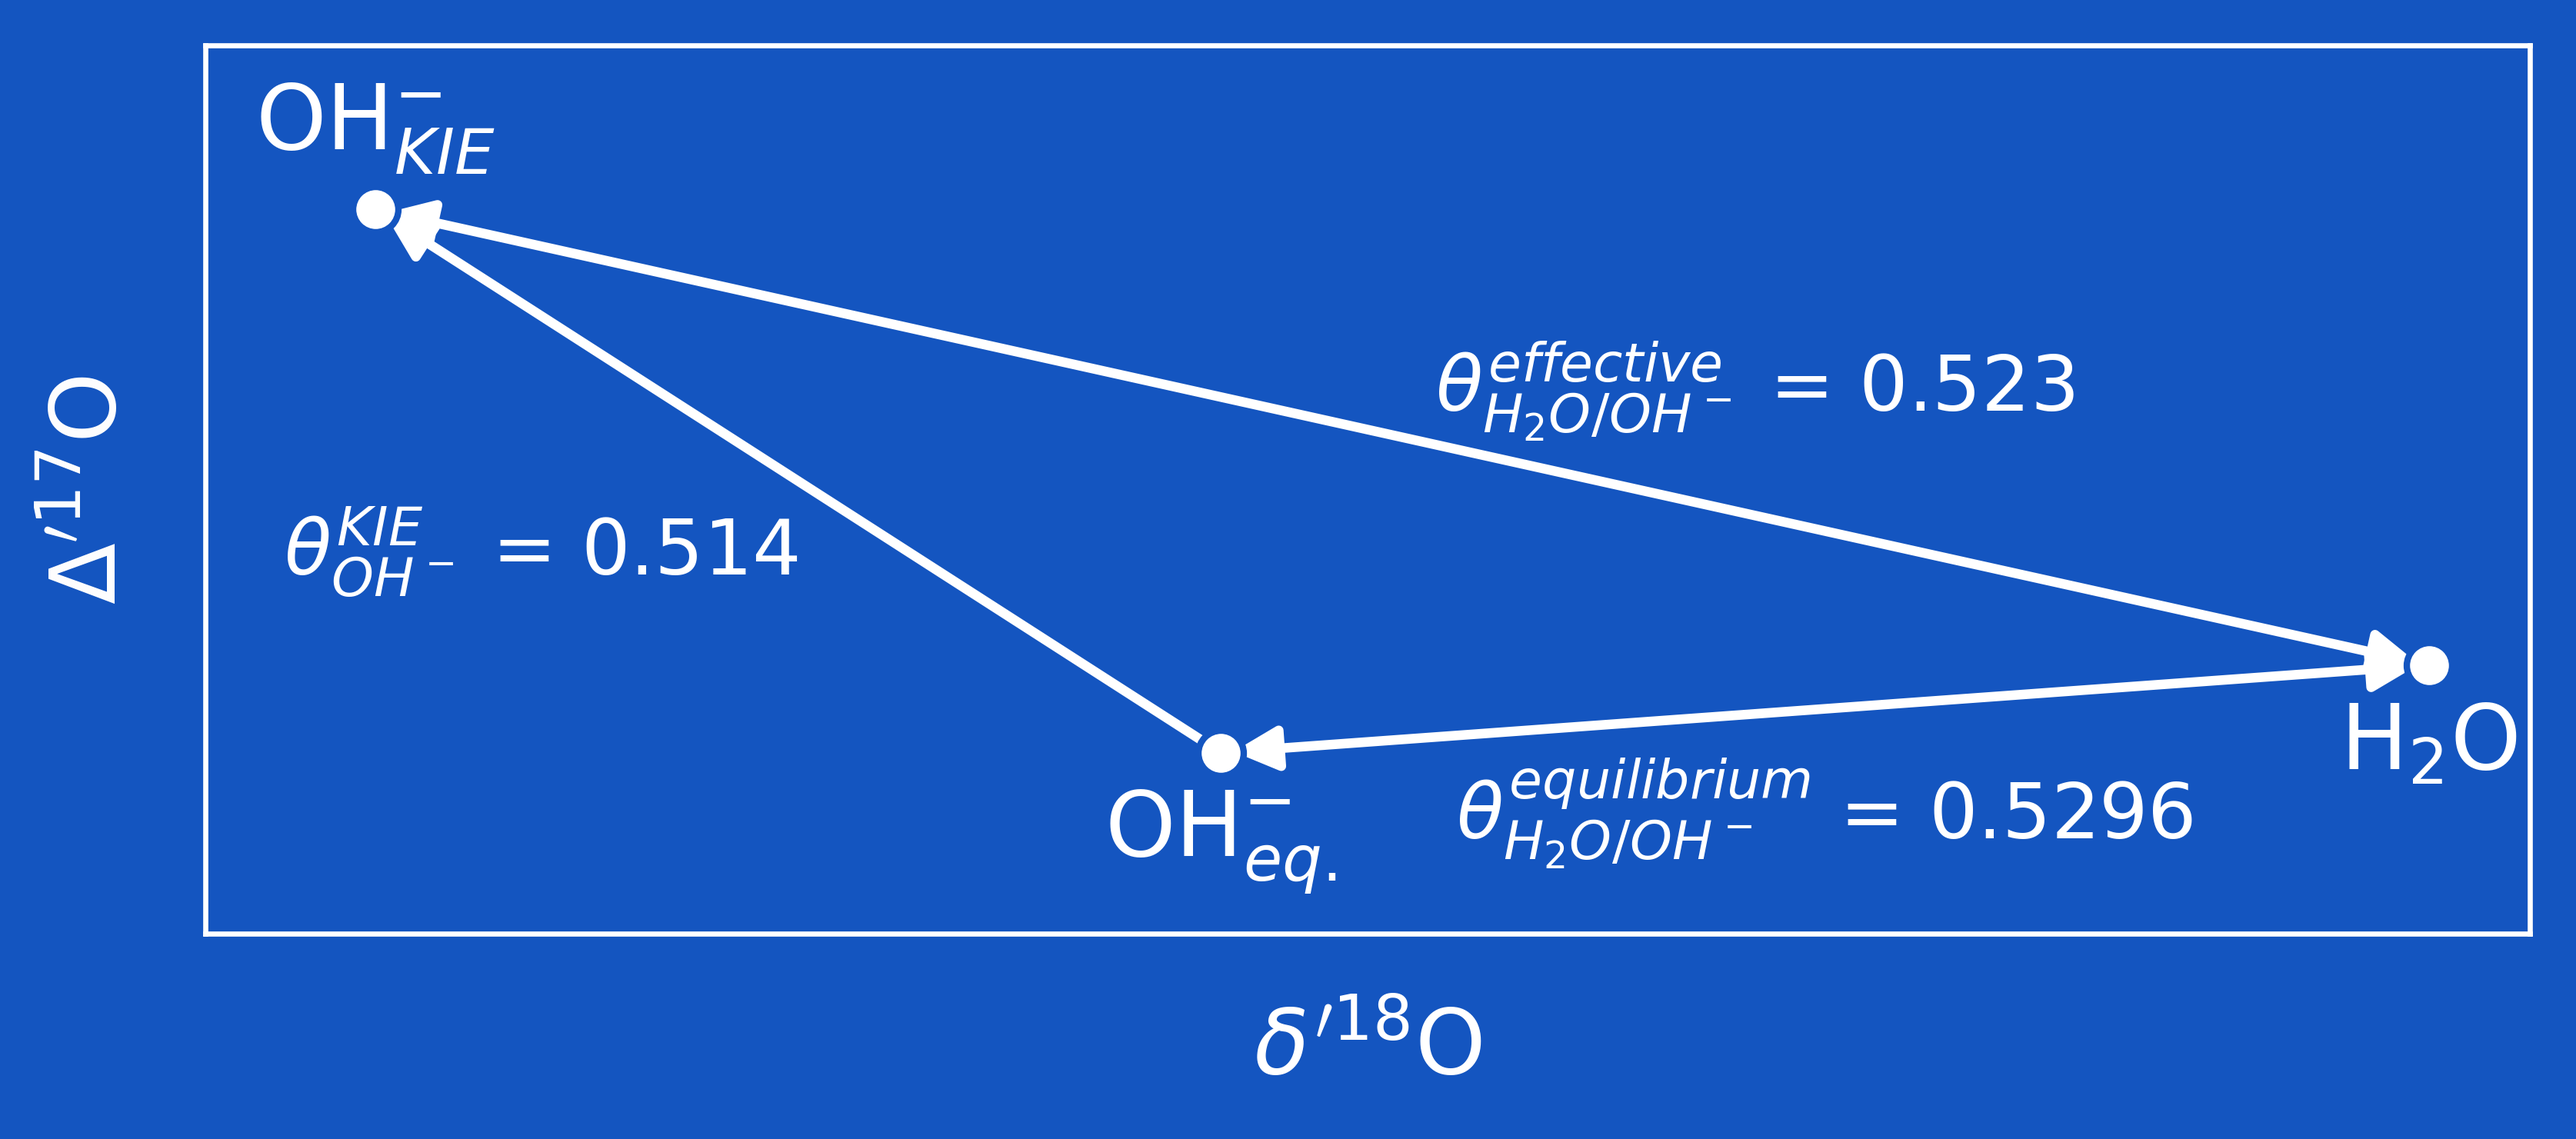
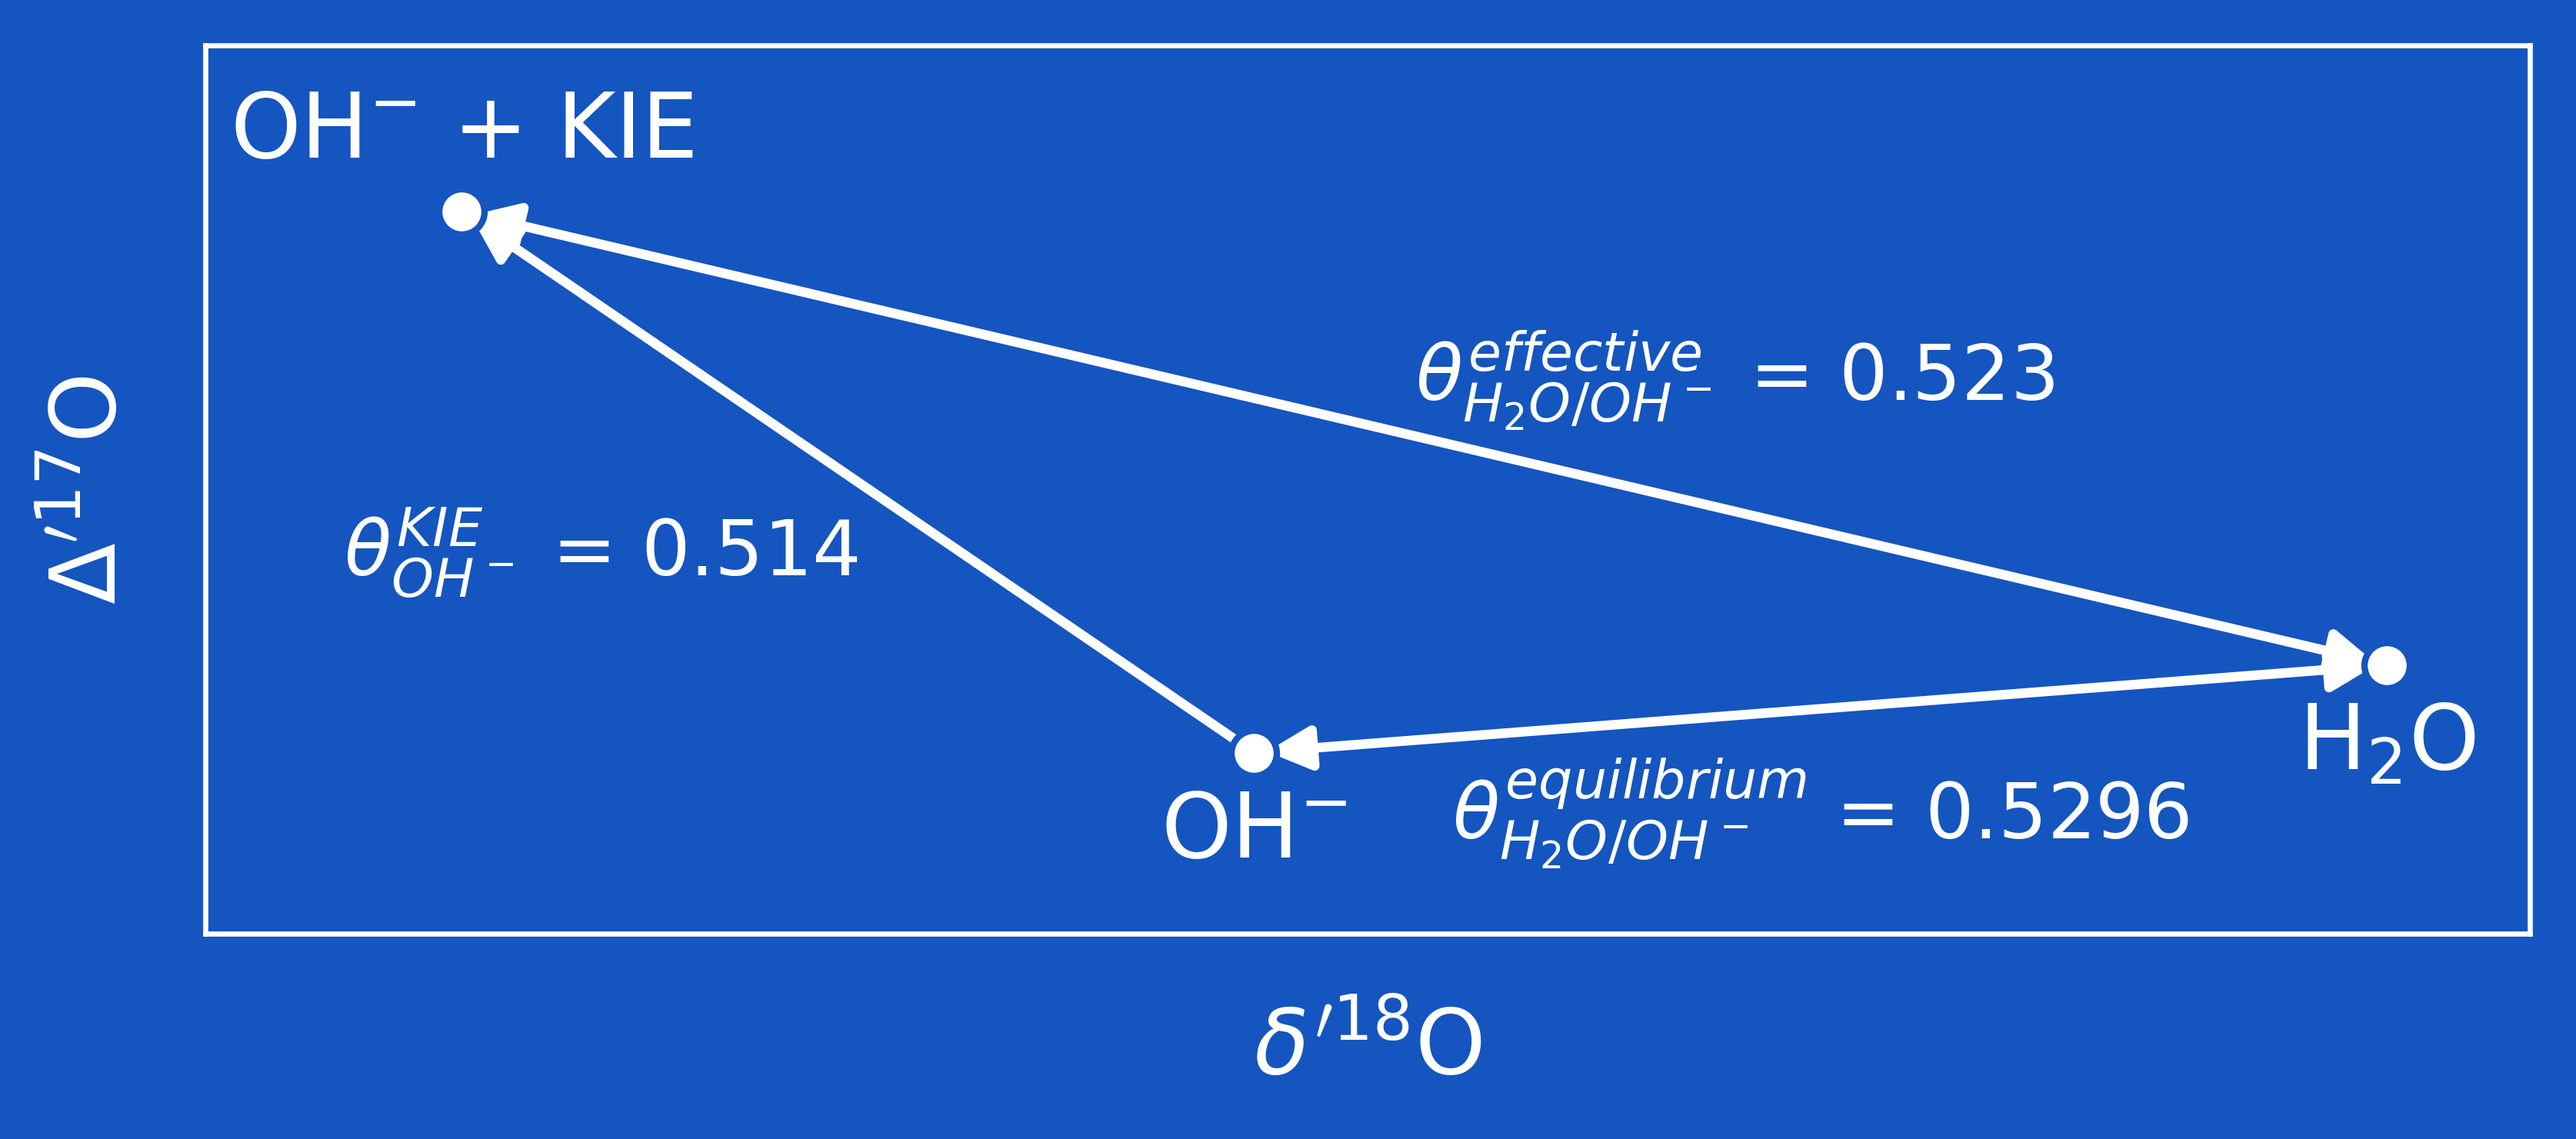
after coffee

diff --git a/OH2 6 triple oxygen.py b/OH2 6 triple oxygen.py
@@ -417,11 +417,11 @@ ax.text(prime(d18O_water), Dp17O_water-15,
 ax.scatter(prime(d18O_OH), Dp17O_OH,
            fc="w", ec="#1455C0", marker="o", s=50, zorder=3)
 ax.text(prime(d18O_OH), Dp17O_OH+15,
-        r"OH$_{KIE}^{-}$",
+        r"OH$^{-}$ + KIE",
         ha="center", va="bottom", color="w")
 
 # Line between effective OH- and water
-ax.text((prime(d18O_OH) + prime(d18O_water))/2+13, (Dp17O_OH + Dp17O_water)/2+20,
+ax.text((prime(d18O_OH) + prime(d18O_water))/2+13, (Dp17O_OH + Dp17O_water)/2+25,
         r"$\theta_{H_2O/OH^-}^{effective}$ = " + f"{theta_effective}",
         ha="right", va="center", color="w",
         fontsize=12)
@@ -433,7 +433,7 @@ ax.annotate("", xy=(prime(d18O_OH), Dp17O_OH), xycoords='data',
 ax.scatter(prime(d18O_OH_eq), Dp17O_OH_eq,
            fc="w", ec="#1455C0", marker="o", s=50, zorder=3)
 ax.text(prime(d18O_OH_eq), Dp17O_OH_eq-15,
-        r"OH$_{eq.}^{-}$",
+        r"OH$^{-}$",
         ha="center", va="top", color="w")
 
 # Line between equilibrium OH- and water
@@ -459,7 +459,7 @@ ax.annotate("", xy=(prime(d18O_OH), Dp17O_OH), xycoords='data',
 ax.set_ylabel("$\Delta^{\prime 17}$O")
 ax.set_xlabel("$\delta^{\prime 18}$O")
 ax.set_ylim(-90, 290)
-ax.set_xlim(-51, -6)
+ax.set_xlim(-53, -5)
 ax.set_xticklabels([])
 ax.set_yticklabels([])
 ax.xaxis.set_ticks_position('none')

diff --git a/OH2 5 KIE OH.py b/OH2 5 KIE OH.py
@@ -151,6 +151,7 @@ df["1000lna18"] = elena(d18O_water, df["d18O_OH_effective"])
 ax.scatter(np.full(len(df), 22), df["1000lna18"],
            marker="o", color="#38342F", ec="k",
            label="experimental data from\nthis study (" + r"$\it{n}$" + f" = {len(df)})")
+print(f"\nThe mean value of 1000lna18OH- is {df['1000lna18'].mean():.1f}‰ (1σ = {df['1000lna18'].std():.1f}‰)")
 
 # Show BH21 equation without the acid fractionation correction
 ax.text(0, 14,
@@ -165,9 +166,9 @@ OH_eff = df["d18O_OH_effective"].mean()
 KIE_OH = (np.log((OH_eff+1000) / (OH_eq+1000))*1000)
 
 print(f"\nKIE_OH = {KIE_OH:.1f}‰ (relative to the theoretical equilibrium value from Z20-X3LYP")
-
-ax.annotate("", xy=(temp, OH_eq), xytext=(temp, OH_eff),
+ax.annotate("", xy=(temp, np.log(a18OH(temp+273.15, "Z20-X3LYP"))*1000), xytext=(temp, df["1000lna18"].mean()),
             arrowprops=dict(arrowstyle="<|-", color="#FF7A00", lw=1.5))
+
 ax.text(23, 30, r"$^{18}KIE_{OH^{-}}$", 
         ha="left", va="center", color="#FF7A00")
 
